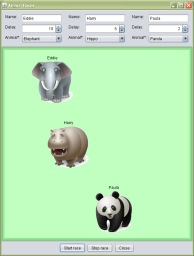
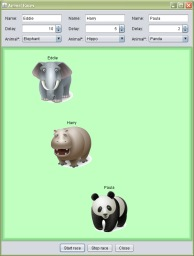
Doco

diff --git a/src/web/site/live-demo/demo.html b/src/web/site/live-demo/demo.html
@@ -25,7 +25,7 @@
 			<applet archive="metawidget.jar, groovy-all-1.6-beta-2.jar, hibernate-validator.jar, ejb3-persistence.jar, console-applet.jar" code="org.metawidget.example.swing.console.GroovyConsoleApplet" width="100%" height="600">
 				<param name="codebase_lookup" value="false"/>
 				<param name="java_arguments" value="-Djnlp.packEnabled=true"/>
-				<param name="script" value="import java.awt.*; import javax.swing.*; import javax.persistence.*;\nimport org.hibernate.validator.*; import org.metawidget.inspector.annotation.*;\nimport org.metawidget.inspector.composite.*; import org.metawidget.inspector.hibernate.validator.*;\nimport org.metawidget.inspector.iface.*; import org.metawidget.inspector.impl.*;\nimport org.metawidget.inspector.impl.propertystyle.groovy.*; import org.metawidget.inspector.java5.*;\nimport org.metawidget.inspector.jpa.*; import org.metawidget.inspector.propertytype.*;\nimport org.metawidget.swing.*; import org.metawidget.swing.layout.*;\n\n// Groovy/JPA/Hibernate Validator Business Model (many other back-end architectures also supported)\n\nenum Title { Mr, Mrs, Miss }\n\nclass Person {\n\t@Id\n\tString id;\n\n\t@NotNull\n\tTitle title;\n\n\t@UiComesAfter(&quot;title&quot;)\n\tString firstname;\n\n\t@Column(nullable=false) @UiComesAfter(&quot;firstname&quot;)\n\tString surname;\n\n\t@UiComesAfter(&quot;surname&quot;) @Min(0l) @Max(100l)\n\tint age;\n\n\t@UiComesAfter(&quot;age&quot;)\n\tboolean retired;\n\n\t@UiSection(&quot;Address&quot;) @UiLabel(&quot;&quot;) @UiComesAfter(&quot;retired&quot;)\n\tAddress address = new Address();\n\n\t@Lob @UiComesAfter(&quot;address&quot;) @UiSection(&quot;Other&quot;)\n\tString notes;\n}\n\nclass Address {\n\tString street;\n\n\t@UiComesAfter(&quot;street&quot;)\n\tString city;\n\n\t@UiLookup([&quot;Anytown&quot;,&quot;Cyberton&quot;,&quot;Lostville&quot;,&quot;Whereverton&quot;]) @UiComesAfter(&quot;city&quot;)\n\tString state;\n\n\t@UiComesAfter(&quot;state&quot;)\n\tString postcode;\n}\n\n// Simple UI around a couple of Metawidgets (Metawidget does not try to 'own' the entire UI)\n\nclass PersonDialog extends JDialog {\n\n\tPersonDialog() {\n\t\tsuper(SwingUtilities.getSharedOwnerFrame(),&quot;Metawidget Live Demo&quot;,true);\n\n\t\t// Metawidget Inspectors (can alternatively be configured via an inspector-config.xml)\n\n\t\tBaseObjectInspectorConfig groovyConfig = new BaseObjectInspectorConfig().setPropertyStyle( GroovyPropertyStyle.class );\n\t\tJpaInspectorConfig jpaConfig = new JpaInspectorConfig().setPropertyStyle( GroovyPropertyStyle.class );\n\t\tInspector inspector = new CompositeInspector( new CompositeInspectorConfig().setInspectors(\n\t\t\tnew MetawidgetAnnotationInspector(groovyConfig),\n\t\t\tnew PropertyTypeInspector(groovyConfig),\n\t\t\tnew HibernateValidatorInspector(groovyConfig),\n\t\t\tnew Java5Inspector(groovyConfig),\n\t\t\tnew JpaInspector(jpaConfig) ));\n\n\t\t// Metawidget for Swing (many other front-end frameworks also supported)\n\n\t\tSwingMetawidget metawidget1 = new SwingMetawidget();\n\t\tmetawidget1.setInspector(inspector);\n\t\tmetawidget1.setToInspect(new Person());\n\t\tmetawidget1.setParameter(&quot;sectionStyle&quot;,GridBagLayout.SECTION_AS_TAB);\n\t\tmetawidget1.setBorder(BorderFactory.createEmptyBorder(5,5,5,5));\n\t\tadd(metawidget1,BorderLayout.CENTER);\n\n\t\tSwingMetawidget metawidget2 = new SwingMetawidget();\n\t\tmetawidget2.setInspector(inspector);\n\t\tmetawidget2.setToInspect(this);\n\t\tmetawidget2.setLayoutClass(org.metawidget.swing.layout.FlowLayout.class);\n\t\tadd(metawidget2,BorderLayout.SOUTH);\n\n\t\tpack();\n\t}\n\n\t@UiAction\n\tvoid save() {\n\t\tJOptionPane.showMessageDialog(this,&quot;Save button clicked!&quot;,getTitle(),JOptionPane.INFORMATION_MESSAGE);\n\t}\n\n\t@UiAction @UiComesAfter(&quot;save&quot;)\n\tvoid cancel() {\n\t\tsetVisible(false);\n\t}\n}\n\nnew PersonDialog().show();"/>
+				<param name="script" value="import javax.swing.*; import javax.persistence.*;\nimport org.hibernate.validator.*; import org.metawidget.inspector.annotation.*;\nimport org.metawidget.inspector.composite.*; import org.metawidget.inspector.hibernate.validator.*;\nimport org.metawidget.inspector.iface.*; import org.metawidget.inspector.impl.*;\nimport org.metawidget.inspector.impl.propertystyle.groovy.*; import org.metawidget.inspector.java5.*;\nimport org.metawidget.inspector.jpa.*; import org.metawidget.inspector.propertytype.*;\nimport org.metawidget.swing.*; import org.metawidget.swing.layout.*;\n\n// Groovy/JPA/Hibernate Validator Business Model (many other back-end architectures also supported)\n\nenum Title { Mr, Mrs, Miss }\n\nclass Person {\n\t@Id\n\tString id;\n\n\t@NotNull\n\tTitle title;\n\n\t@UiComesAfter(&quot;title&quot;)\n\tString firstname;\n\n\t@Column(nullable=false) @UiComesAfter(&quot;firstname&quot;)\n\tString surname;\n\n\t@UiComesAfter(&quot;surname&quot;) @Min(0l) @Max(100l)\n\tint age;\n\n\t@UiComesAfter(&quot;age&quot;)\n\tboolean retired;\n\n\t@UiSection(&quot;Address&quot;) @UiLabel(&quot;&quot;) @UiComesAfter(&quot;retired&quot;)\n\tAddress address = new Address();\n\n\t@Lob @UiComesAfter(&quot;address&quot;) @UiSection(&quot;Other&quot;)\n\tString notes;\n}\n\nclass Address {\n\tString street;\n\n\t@UiComesAfter(&quot;street&quot;)\n\tString city;\n\n\t@UiLookup([&quot;Anytown&quot;,&quot;Cyberton&quot;,&quot;Lostville&quot;,&quot;Whereverton&quot;]) @UiComesAfter(&quot;city&quot;)\n\tString state;\n\n\t@UiComesAfter(&quot;state&quot;)\n\tString postcode;\n}\n\n// Simple UI around a couple of Metawidgets (Metawidget does not try to 'own' the entire UI)\n\nclass PersonDialog extends JDialog {\n\n\tPersonDialog() {\n\t\tsuper(SwingUtilities.getSharedOwnerFrame(),&quot;Metawidget Live Demo&quot;,true);\n\n\t\t// Metawidget Inspectors (can alternatively be configured via an inspector-config.xml)\n\n\t\tBaseObjectInspectorConfig groovyConfig = new BaseObjectInspectorConfig().setPropertyStyle( GroovyPropertyStyle.class );\n\t\tJpaInspectorConfig jpaConfig = new JpaInspectorConfig().setPropertyStyle( GroovyPropertyStyle.class );\n\t\tInspector inspector = new CompositeInspector( new CompositeInspectorConfig().setInspectors(\n\t\t\tnew MetawidgetAnnotationInspector(groovyConfig),\n\t\t\tnew PropertyTypeInspector(groovyConfig),\n\t\t\tnew HibernateValidatorInspector(groovyConfig),\n\t\t\tnew Java5Inspector(groovyConfig),\n\t\t\tnew JpaInspector(jpaConfig) ));\n\n\t\t// Metawidget for Swing (many other front-end frameworks also supported)\n\n\t\tSwingMetawidget metawidget1 = new SwingMetawidget();\n\t\tmetawidget1.setInspector(inspector);\n\t\tmetawidget1.setToInspect(new Person());\n\t\tmetawidget1.setParameter(&quot;sectionStyle&quot;,GridBagLayout.SECTION_AS_TAB);\n\t\tmetawidget1.setBorder(BorderFactory.createEmptyBorder(5,5,5,5));\n\t\tadd(metawidget1,java.awt.BorderLayout.CENTER);\n\n\t\tSwingMetawidget metawidget2 = new SwingMetawidget();\n\t\tmetawidget2.setInspector(inspector);\n\t\tmetawidget2.setToInspect(this);\n\t\tmetawidget2.setLayoutClass(FlowLayout.class);\n\t\tadd(metawidget2,java.awt.BorderLayout.SOUTH);\n\n\t\tpack();\n\t}\n\n\t@UiAction\n\tvoid save() {\n\t\tJOptionPane.showMessageDialog(this,&quot;Save button clicked!&quot;,getTitle(),JOptionPane.INFORMATION_MESSAGE);\n\t}\n\n\t@UiAction @UiComesAfter(&quot;save&quot;)\n\tvoid cancel() {\n\t\tsetVisible(false);\n\t}\n}\n\nnew PersonDialog().show();"/>
 			</applet>
 		</div>
 

diff --git a/src/web/site/live-demo/index.html b/src/web/site/live-demo/index.html
@@ -40,7 +40,7 @@
 		</ul>
 		
 		<center>
-			<a href="http://metawidget.sourceforge.net/live-demo/demo.html" onclick="pageTracker._link(this.href); return false;"><img src="${context}/media/start-live-demo.jpg" alt="" style="border: 0; margin-top: 20px"/></a>
+			<a href="demo.html"><img src="${context}/media/start-live-demo.jpg" alt="" style="border: 0; margin-top: 20px"/></a>
 		</center>
 		
 	</tags:body>

diff --git a/src/java/org/metawidget/inspector/impl/propertystyle/scala/ScalaPropertyStyle.java b/src/java/org/metawidget/inspector/impl/propertystyle/scala/ScalaPropertyStyle.java
@@ -26,11 +26,9 @@ import org.metawidget.inspector.impl.propertystyle.javabean.JavaBeanPropertyStyl
  * PropertyStyle for Scala-style properties.
  * <p>
  * Scala-style properties can <em>almost</em> be handled using <code>JavaBeanPropertyStyle</code>,
- * because the Scala compiler automatically generates JavaBean-style getters and setters as well as
- * Scala-style getters and setters. Unfortunately, it only copies any annotations defined on the
- * property to the Scala getters and setters, not the JavaBean ones. This <code>PropertyStyle</code>
- * is designed to access those annotations.
- * 
+ * but you have to use Scala's <code>BeanProperty</code> annotation everywhere which is
+ * cumbersome. This <code>PropertyStyle</code> is designed to access Scala properties natively.
+ *
  * @author Richard Kennard
  */
 
@@ -48,8 +46,8 @@ public class ScalaPropertyStyle
 	//
 
 	/**
-	 * Overridden because Scala always wraps properties with getter and setter methods. It never uses
-	 * public fields directly.
+	 * Overridden because Scala always wraps properties with getter and setter methods. It never
+	 * uses public fields directly.
 	 */
 
 	@Override

diff --git a/examples/src/java/org/metawidget/example/swing/addressbook/ContactDialog.java b/examples/src/java/org/metawidget/example/swing/addressbook/ContactDialog.java
@@ -186,10 +186,19 @@ public class ContactDialog
 				if ( JOptionPane.showConfirmDialog( ContactDialog.this, "Sure you want to delete this communication?" ) != JOptionPane.OK_OPTION )
 					return;
 
-				Communication communication = mCommunicationsModel.getValueAt( tableCommunications.rowAtPoint( menuPopup.getLocation() ) );
+				int rowAtPoint = tableCommunications.rowAtPoint( menuPopup.getLocation() );
+
+				if ( rowAtPoint == -1 )
+					return;
+
+				Communication communication = mCommunicationsModel.getValueAt( rowAtPoint );
 
 				contact.removeCommunication( communication );
 				mCommunicationsModel.importCollection( contact.getCommunications() );
+
+				// (needed for Nimbus)
+
+				menuPopup.setVisible( false );
 			}
 		} );
 		tableCommunications.add( menuPopup );

diff --git a/src/java/org/metawidget/swing/SwingMetawidget.java b/src/java/org/metawidget/swing/SwingMetawidget.java
@@ -930,8 +930,15 @@ public class SwingMetawidget
 		if ( mNeedToBuildWidgets )
 			return;
 
-		mNeedToBuildWidgets = true;
+		// Note: it is important to call removeAll BEFORE setting mNeedToBuildWidgets
+		// to true. On some JRE implementations (ie. 1.6_12) removeAll triggers an
+		// immediate repaint which sets mNeedToBuildWidgets back to false
+
 		super.removeAll();
+
+		// Prepare to build widgets
+
+		mNeedToBuildWidgets = true;
 
 		if ( mPropertyBinding != null )
 		{
